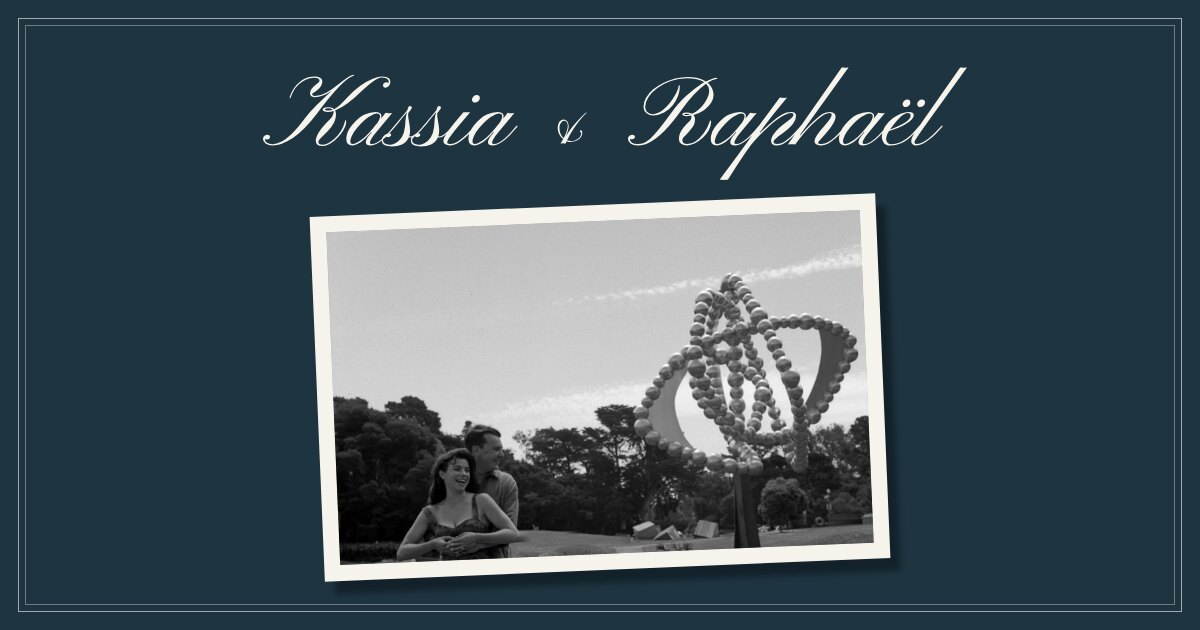
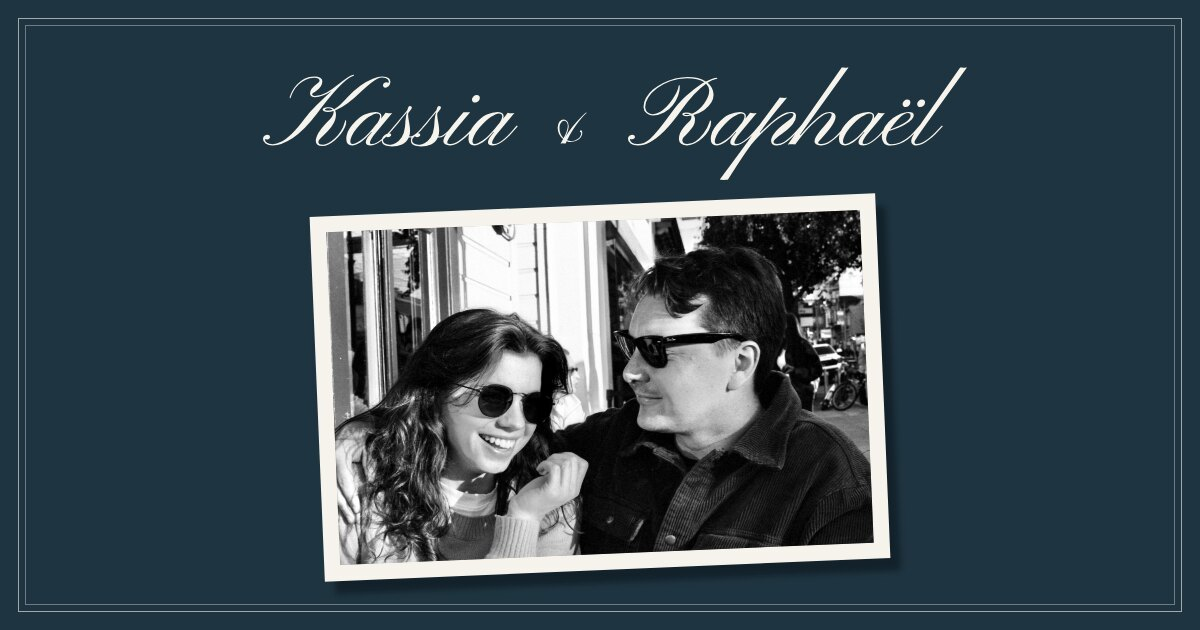
Hero: the café photo of Kassia and Raphaël in sunglasses
Replaces the hero with the scanned café print: straightened 0.45 degrees, six dust
specks removed, the site's black-and-white contrast, 1960x1223 (above 2x on desktop
and phones). Same tilt, mat and shadow. Alt text updated in English and French.
The link preview image is regenerated from the new hero. Earlier hero photos stay in
the repo; the Weekend photo is unchanged.

Claude-Session: https://claude.ai/code/session_01D8QeZqW9XuGrUWD3SXeA71

Changed region(s): [[0.2467, 0.3317, 0.74, 0.9048]]

diff --git a/index.html b/index.html
@@ -16,7 +16,7 @@
   <meta property="og:url" content="https://kassiaraphael.com/">
   <meta property="og:title" content="Kassia &amp; Raphaël · October 8, 2027">
   <meta property="og:description" content="Castel Gandolfo, Italy. We hope you’ll be there.">
-  <meta property="og:image" content="https://kassiaraphael.com/images/og.jpg?v=4">
+  <meta property="og:image" content="https://kassiaraphael.com/images/og.jpg?v=5">
   <meta property="og:image:type" content="image/jpeg">
   <meta property="og:image:width" content="1200">
   <meta property="og:image:height" content="630">
@@ -26,7 +26,7 @@
   <meta name="twitter:card" content="summary_large_image">
   <meta name="twitter:title" content="Kassia &amp; Raphaël · October 8, 2027">
   <meta name="twitter:description" content="Castel Gandolfo, Italy. We hope you’ll be there.">
-  <meta name="twitter:image" content="https://kassiaraphael.com/images/og.jpg?v=4">
+  <meta name="twitter:image" content="https://kassiaraphael.com/images/og.jpg?v=5">
   <meta name="twitter:image:alt" content="Kassia &amp; Raphaël in script above a tilted black-and-white photograph of the two of them">
 
   <!-- Icons: the villa, simplified for 16-48px (source: assets/favicon-source.svg).
@@ -71,8 +71,8 @@
       <h1 class="names"><span class="vh">Kassia &amp; Raphaël</span><span class="name" aria-hidden="true"><svg class="glyphs" viewBox="0 -1768 5084 2555" style="width:2.4824em" aria-hidden="true" focusable="false"><path d="M199 2Q105 2 52 -38Q0 -77 0 -132Q0 -178 31 -196Q62 -215 93 -215Q109 -215 126 -205Q143 -195 143 -170Q143 -151 126 -136Q109 -121 86 -121Q73 -121 61 -122Q49 -124 39 -130V-124Q39 -81 82 -52Q125 -24 198 -24Q274 -24 371 -73Q468 -122 590 -239Q713 -356 863 -560Q946 -673 1090 -816Q1234 -959 1403 -1115Q1309 -1052 1226 -1018Q1143 -983 1063 -983Q1019 -983 991 -1004Q963 -1024 963 -1064Q963 -1160 1112 -1267Q1159 -1300 1159 -1321Q1159 -1354 1130 -1368Q1100 -1383 1050 -1383Q956 -1383 874 -1344Q793 -1305 730 -1244Q666 -1182 626 -1114Q585 -1046 572 -988Q564 -962 558 -962Q547 -962 547 -980Q547 -990 549 -996Q560 -1039 596 -1108Q633 -1177 695 -1246Q757 -1316 848 -1364Q938 -1411 1057 -1411Q1126 -1411 1171 -1382Q1216 -1354 1216 -1311Q1216 -1260 1182 -1204Q1148 -1149 1068 -1099Q1040 -1081 1024 -1070Q1008 -1060 1008 -1043Q1008 -1030 1024 -1020Q1039 -1011 1063 -1011Q1173 -1011 1294 -1076Q1415 -1140 1551 -1255Q1648 -1333 1709 -1374Q1770 -1415 1804 -1430Q1838 -1446 1853 -1446Q1867 -1446 1867 -1438Q1867 -1429 1857 -1426Q1825 -1417 1769 -1382Q1713 -1347 1625 -1264Q1537 -1182 1410 -1034Q1282 -886 1107 -651Q848 -307 611 -152Q374 2 199 2ZM1217 14Q1081 14 1081 -90Q1081 -132 1104 -190Q1126 -249 1190 -334Q1254 -419 1377 -540Q1415 -577 1431 -620Q1447 -662 1447 -685Q1447 -695 1444 -704Q1384 -685 1331 -684Q1282 -682 1252 -699Q1221 -716 1221 -735Q1221 -752 1247 -766Q1273 -781 1323 -782Q1364 -783 1399 -774Q1434 -764 1457 -741Q1517 -771 1582 -831Q1648 -891 1730 -983Q1866 -1132 2000 -1226Q2135 -1321 2250 -1366Q2364 -1412 2438 -1412Q2535 -1412 2576 -1374Q2617 -1337 2607 -1281Q2599 -1235 2570 -1208Q2540 -1181 2509 -1181Q2479 -1181 2467 -1200Q2455 -1218 2459 -1239Q2462 -1259 2482 -1276Q2502 -1292 2527 -1292Q2555 -1292 2571 -1277L2575 -1295Q2581 -1321 2552 -1355Q2523 -1389 2438 -1389Q2394 -1389 2342 -1364Q2289 -1340 2211 -1278Q2133 -1216 2011 -1102Q1867 -960 1733 -860Q1599 -759 1477 -715Q1495 -681 1495 -638Q1495 -582 1476 -518Q1456 -454 1398 -374Q1341 -295 1227 -193Q1169 -141 1152 -113Q1134 -85 1134 -67Q1134 -41 1154 -28Q1175 -14 1230 -14Q1277 -14 1342 -48Q1407 -81 1474 -144Q1541 -206 1596 -294Q1651 -382 1678 -490Q1686 -521 1692 -521Q1704 -521 1704 -483Q1704 -426 1673 -359Q1642 -292 1590 -226Q1537 -160 1473 -106Q1409 -52 1342 -19Q1276 14 1217 14ZM1345 -712Q1389 -714 1428 -729Q1410 -746 1382 -754Q1353 -762 1325 -760Q1303 -759 1286 -750Q1270 -742 1270 -736Q1270 -727 1288 -719Q1305 -711 1345 -712ZM1829 2Q1765 2 1736 -33Q1706 -68 1706 -129Q1706 -196 1734 -272Q1763 -348 1829 -423Q1964 -580 2082 -632Q2199 -685 2302 -685Q2354 -685 2390 -663Q2426 -641 2426 -603Q2426 -574 2414 -544Q2446 -582 2468 -610Q2491 -639 2512 -665Q2538 -657 2572 -657Q2586 -657 2610 -658Q2634 -659 2647 -661L2310 -255Q2246 -179 2218 -132Q2190 -84 2190 -58Q2190 -26 2221 -26Q2275 -26 2333 -58Q2391 -89 2447 -138Q2503 -188 2552 -242Q2601 -295 2638 -340Q2676 -386 2696 -408L2716 -391Q2694 -366 2654 -319Q2614 -272 2562 -217Q2511 -162 2452 -112Q2392 -62 2330 -30Q2267 2 2206 2Q2106 2 2106 -60Q2106 -83 2114 -106Q2123 -130 2149 -168Q2175 -205 2227 -268L2217 -272Q2095 -122 1992 -60Q1888 2 1829 2ZM1833 -28Q1897 -28 2002 -102Q2107 -177 2254 -351Q2278 -380 2298 -405Q2319 -430 2338 -452Q2361 -487 2380 -525Q2398 -563 2398 -594Q2398 -625 2376 -640Q2354 -654 2328 -654Q2279 -654 2170 -584Q2060 -513 1929 -358Q1854 -268 1821 -198Q1788 -128 1788 -80Q1788 -28 1833 -28ZM2638 23Q2607 23 2558 15Q2509 7 2470 -19Q2432 -45 2432 -100Q2432 -150 2462 -182Q2493 -215 2530 -231Q2567 -247 2585 -247Q2626 -247 2626 -209Q2625 -193 2604 -180Q2582 -166 2556 -166Q2544 -166 2532 -174Q2521 -183 2514 -187Q2503 -176 2480 -154Q2458 -133 2458 -99Q2458 -61 2488 -42Q2519 -24 2557 -18Q2595 -13 2615 -13Q2657 -13 2720 -46Q2783 -80 2838 -159Q2892 -238 2908 -374Q2913 -422 2918 -507Q2922 -592 2949 -670Q2950 -673 2950 -679Q2912 -632 2868 -578Q2824 -524 2784 -474Q2743 -424 2714 -389Q2694 -365 2685 -358Q2676 -351 2677 -351Q2676 -351 2670 -350Q2663 -350 2659 -357Q2657 -362 2668 -376Q2680 -390 2693 -406Q2716 -432 2764 -489Q2812 -546 2866 -611Q2919 -676 2958 -726Q2964 -756 2976 -780Q2988 -804 3010 -804Q3050 -804 3050 -771Q3049 -752 3004 -700Q2977 -668 2975 -658Q2973 -649 2973 -634Q2972 -598 2980 -544Q2989 -491 2999 -432Q3009 -374 3012 -321Q3015 -242 2994 -184Q3010 -182 3021 -182Q3053 -182 3094 -211Q3136 -240 3177 -280Q3218 -320 3248 -356Q3279 -392 3289 -406L3311 -389Q3294 -371 3261 -334Q3228 -296 3186 -256Q3144 -215 3100 -186Q3057 -158 3018 -158Q3009 -158 3001 -158Q2993 -159 2985 -160Q2938 -56 2846 -16Q2754 23 2638 23ZM3234 23Q3203 23 3154 15Q3105 7 3066 -19Q3028 -45 3028 -100Q3028 -150 3058 -182Q3089 -215 3126 -231Q3163 -247 3181 -247Q3222 -247 3222 -209Q3221 -193 3200 -180Q3178 -166 3152 -166Q3140 -166 3128 -174Q3117 -183 3110 -187Q3099 -176 3076 -154Q3054 -133 3054 -99Q3054 -61 3084 -42Q3115 -24 3153 -18Q3191 -13 3211 -13Q3253 -13 3316 -46Q3379 -80 3434 -159Q3488 -238 3504 -374Q3509 -422 3514 -507Q3518 -592 3545 -670Q3546 -673 3546 -679Q3508 -632 3464 -578Q3420 -524 3380 -474Q3339 -424 3310 -389Q3290 -365 3281 -358Q3272 -351 3273 -351Q3272 -351 3266 -350Q3259 -350 3255 -357Q3253 -362 3264 -376Q3276 -390 3289 -406Q3312 -432 3360 -489Q3408 -546 3462 -611Q3515 -676 3554 -726Q3560 -756 3572 -780Q3584 -804 3606 -804Q3646 -804 3646 -771Q3645 -752 3600 -700Q3573 -668 3571 -658Q3569 -649 3569 -634Q3568 -598 3576 -544Q3585 -491 3595 -432Q3605 -374 3608 -321Q3611 -242 3590 -184Q3606 -182 3617 -182Q3649 -182 3690 -211Q3732 -240 3773 -280Q3814 -320 3844 -356Q3875 -392 3885 -406L3907 -389Q3890 -371 3857 -334Q3824 -296 3782 -256Q3740 -215 3696 -186Q3653 -158 3614 -158Q3605 -158 3597 -158Q3589 -159 3581 -160Q3534 -56 3442 -16Q3350 23 3234 23ZM4341 -876Q4313 -876 4296 -894Q4280 -911 4280 -938Q4280 -973 4310 -1002Q4339 -1032 4380 -1032Q4408 -1032 4424 -1014Q4441 -995 4441 -969Q4441 -932 4410 -904Q4378 -876 4341 -876ZM3830 2Q3769 2 3732 -20Q3694 -43 3694 -81Q3694 -111 3709 -150Q3724 -190 3766 -254Q3809 -318 3890 -420Q3972 -523 4105 -678Q4114 -677 4148 -676Q4182 -675 4201 -675Q4218 -675 4226 -676Q4235 -676 4243 -677Q4097 -505 4004 -394Q3912 -283 3862 -217Q3812 -151 3793 -116Q3774 -81 3774 -60Q3774 -34 3802 -30Q3830 -26 3847 -26Q3901 -26 3965 -62Q4029 -99 4092 -154Q4156 -208 4210 -264Q4265 -320 4300 -360Q4335 -401 4341 -407L4361 -389Q4350 -377 4313 -334Q4276 -291 4221 -234Q4166 -178 4100 -124Q4035 -70 3966 -34Q3896 2 3830 2ZM4331 2Q4267 2 4238 -33Q4208 -68 4208 -129Q4208 -196 4236 -272Q4265 -348 4331 -423Q4466 -580 4584 -632Q4701 -685 4804 -685Q4856 -685 4892 -663Q4928 -641 4928 -603Q4928 -574 4916 -544Q4948 -582 4970 -610Q4993 -639 5014 -665Q5040 -657 5074 -657Q5088 -657 5112 -658Q5136 -659 5149 -661L4812 -255Q4748 -179 4720 -132Q4692 -84 4692 -58Q4692 -26 4723 -26Q4777 -26 4835 -58Q4893 -89 4949 -138Q5005 -188 5054 -242Q5103 -295 5140 -340Q5178 -386 5198 -408L5218 -391Q5196 -366 5156 -319Q5116 -272 5064 -217Q5013 -162 4954 -112Q4894 -62 4832 -30Q4769 2 4708 2Q4608 2 4608 -60Q4608 -83 4616 -106Q4625 -130 4651 -168Q4677 -205 4729 -268L4719 -272Q4597 -122 4494 -60Q4390 2 4331 2ZM4335 -28Q4399 -28 4504 -102Q4609 -177 4756 -351Q4780 -380 4800 -405Q4821 -430 4840 -452Q4863 -487 4882 -525Q4900 -563 4900 -594Q4900 -625 4878 -640Q4856 -654 4830 -654Q4781 -654 4672 -584Q4562 -513 4431 -358Q4356 -268 4323 -198Q4290 -128 4290 -80Q4290 -28 4335 -28Z"/></svg></span> <span class="name2" aria-hidden="true"><span class="amp"><svg class="glyphs" viewBox="0 -1768 1582 2555" style="width:0.7725em" aria-hidden="true" focusable="false"><path d="M681 -18Q666 -21 638 -22Q611 -24 590 -24Q579 -24 562 -23Q544 -22 520 -19Q543 -56 564 -91Q585 -126 604 -159Q527 -221 478 -314Q430 -407 430 -513Q430 -627 485 -703Q540 -779 622 -779Q681 -779 730 -724Q780 -668 780 -564Q780 -507 750 -415Q720 -323 670 -224Q798 -422 910 -562Q1022 -702 1120 -803Q1217 -904 1303 -984Q1320 -1000 1331 -1000Q1343 -1000 1343 -991Q1343 -984 1311 -953Q1208 -853 1103 -720Q998 -587 902 -434Q805 -281 727 -119Q790 -93 860 -93Q987 -93 1082 -174Q1123 -211 1148 -257Q1172 -303 1172 -353Q1172 -356 1170 -368Q1130 -370 1130 -404Q1130 -415 1139 -424Q1148 -433 1161 -433Q1207 -433 1207 -367Q1207 -306 1178 -250Q1148 -193 1098 -152Q993 -66 854 -66Q785 -66 715 -94ZM619 -188Q687 -313 718 -410Q750 -508 750 -575Q750 -652 714 -696Q677 -739 633 -739Q597 -739 564 -707Q530 -675 508 -623Q487 -571 487 -511Q487 -413 522 -330Q558 -246 619 -188Z"/></svg></span>&nbsp;<span class="name"><svg class="glyphs" viewBox="0 -1768 6355 2555" style="width:3.1030em" aria-hidden="true" focusable="false"><path d="M252 2Q143 2 92 -38Q40 -78 40 -135Q40 -179 71 -198Q102 -218 133 -218Q150 -218 166 -207Q183 -196 183 -172Q183 -153 166 -138Q150 -122 128 -122Q115 -122 102 -124Q90 -126 80 -133V-127Q80 -83 122 -54Q165 -26 239 -26Q305 -26 365 -49Q425 -72 496 -136Q568 -201 668 -324Q768 -447 914 -648Q1074 -872 1235 -1015Q1396 -1158 1565 -1270Q1575 -1276 1584 -1282Q1594 -1287 1604 -1292Q1543 -1333 1452 -1353Q1360 -1373 1247 -1373Q1073 -1373 917 -1317Q761 -1261 642 -1172Q523 -1083 456 -980Q390 -878 393 -784Q395 -730 420 -698Q446 -666 482 -652Q517 -638 549 -638Q621 -638 694 -682Q767 -727 834 -796Q900 -866 953 -944Q1006 -1023 1039 -1092Q1072 -1161 1076 -1203Q1080 -1237 1091 -1237Q1101 -1237 1101 -1205Q1104 -1117 1067 -1014Q1030 -912 958 -820Q885 -728 781 -670Q677 -612 547 -612Q482 -612 422 -658Q361 -703 359 -779Q356 -878 408 -970Q460 -1063 552 -1141Q644 -1219 762 -1278Q879 -1336 1008 -1368Q1137 -1401 1262 -1401Q1492 -1401 1635 -1309Q1712 -1348 1768 -1366Q1824 -1384 1852 -1384Q1871 -1384 1872 -1374Q1872 -1362 1844 -1358Q1767 -1342 1671 -1283Q1787 -1189 1793 -1042Q1797 -958 1747 -876Q1697 -793 1604 -726Q1510 -660 1383 -622Q1412 -592 1413 -544Q1416 -499 1403 -454Q1390 -408 1346 -348Q1302 -287 1212 -197Q1178 -168 1166 -144Q1154 -119 1155 -99Q1155 -69 1177 -48Q1199 -26 1260 -26Q1340 -26 1428 -85Q1515 -144 1591 -247Q1667 -350 1711 -480Q1719 -510 1725 -510Q1743 -510 1743 -481Q1744 -394 1696 -308Q1648 -223 1572 -153Q1496 -83 1412 -40Q1327 2 1255 2Q1174 2 1130 -32Q1086 -67 1084 -121Q1082 -195 1108 -254Q1134 -313 1175 -362Q1216 -411 1257 -453Q1310 -497 1325 -526Q1340 -555 1339 -583Q1339 -597 1333 -609Q1308 -603 1285 -600Q1262 -598 1242 -598Q1199 -598 1177 -610Q1155 -621 1154 -636Q1153 -648 1172 -660Q1192 -671 1230 -671Q1263 -671 1294 -666Q1326 -660 1351 -646Q1420 -675 1484 -730Q1548 -785 1598 -854Q1649 -923 1678 -994Q1706 -1065 1704 -1126Q1701 -1206 1641 -1263Q1522 -1182 1391 -1042Q1260 -901 1133 -716Q939 -444 780 -287Q620 -130 490 -64Q360 2 252 2ZM1237 -621Q1272 -621 1310 -632Q1282 -648 1230 -648Q1190 -648 1190 -638Q1190 -634 1202 -628Q1214 -621 1237 -621ZM1859 2Q1795 2 1766 -33Q1736 -68 1736 -129Q1736 -196 1764 -272Q1793 -348 1859 -423Q1994 -580 2112 -632Q2229 -685 2332 -685Q2384 -685 2420 -663Q2456 -641 2456 -603Q2456 -574 2444 -544Q2476 -582 2498 -610Q2521 -639 2542 -665Q2568 -657 2602 -657Q2616 -657 2640 -658Q2664 -659 2677 -661L2340 -255Q2276 -179 2248 -132Q2220 -84 2220 -58Q2220 -26 2251 -26Q2305 -26 2363 -58Q2421 -89 2477 -138Q2533 -188 2582 -242Q2631 -295 2668 -340Q2706 -386 2726 -408L2746 -391Q2724 -366 2684 -319Q2644 -272 2592 -217Q2541 -162 2482 -112Q2422 -62 2360 -30Q2297 2 2236 2Q2136 2 2136 -60Q2136 -83 2144 -106Q2153 -130 2179 -168Q2205 -205 2257 -268L2247 -272Q2125 -122 2022 -60Q1918 2 1859 2ZM1863 -28Q1927 -28 2032 -102Q2137 -177 2284 -351Q2308 -380 2328 -405Q2349 -430 2368 -452Q2391 -487 2410 -525Q2428 -563 2428 -594Q2428 -625 2406 -640Q2384 -654 2358 -654Q2309 -654 2200 -584Q2090 -513 1959 -358Q1884 -268 1851 -198Q1818 -128 1818 -80Q1818 -28 1863 -28ZM1994 709Q1982 709 1958 706Q1935 704 1921 700Q1998 596 2095 465Q2192 334 2296 192Q2399 50 2498 -86Q2596 -223 2674 -337Q2732 -417 2771 -470Q2810 -523 2844 -567Q2877 -611 2916 -662Q2954 -713 3010 -788Q3065 -862 3150 -977Q3186 -973 3208 -972Q3229 -971 3244 -971Q3258 -971 3272 -972Q3287 -974 3301 -978Q3213 -871 3153 -798Q3093 -726 3052 -676Q3011 -625 2979 -584Q2947 -543 2916 -501Q2884 -459 2843 -404Q2802 -348 2741 -266L2748 -258Q3059 -557 3207 -634Q3254 -658 3290 -672Q3327 -685 3388 -685Q3438 -685 3460 -662Q3483 -639 3483 -602Q3483 -526 3416 -436Q3350 -346 3182 -227Q3082 -156 3052 -124Q3022 -93 3022 -71Q3022 -26 3093 -26Q3163 -26 3236 -70Q3309 -115 3377 -180Q3445 -244 3500 -307Q3554 -370 3585 -406L3607 -389Q3577 -355 3522 -291Q3466 -227 3394 -160Q3321 -92 3242 -45Q3163 2 3087 2Q3028 2 3000 -24Q2971 -51 2971 -97Q2971 -165 3046 -260Q3121 -355 3300 -488Q3389 -552 3409 -581Q3429 -610 3429 -628Q3429 -640 3418 -650Q3408 -660 3388 -660Q3341 -660 3296 -644Q3251 -628 3199 -597Q3135 -560 3054 -496Q2973 -432 2887 -352Q2801 -273 2718 -187Q2636 -101 2567 -19Q2517 47 2456 137Q2394 227 2332 322Q2269 417 2216 500Q2162 583 2128 638Q2093 693 2088 701Q2078 704 2055 706Q2032 709 1994 709ZM3994 2Q3948 2 3904 -19Q3861 -40 3861 -75Q3861 -102 3874 -138Q3886 -175 3931 -239Q3976 -303 4074 -413Q4153 -502 4183 -551Q4213 -600 4213 -624Q4213 -638 4204 -649Q4194 -660 4166 -660Q4143 -660 4104 -647Q4064 -634 4017 -603Q3938 -549 3821 -436Q3704 -324 3557 -141L3465 -19Q3449 -22 3435 -23Q3421 -24 3407 -24Q3371 -24 3346 -20Q3322 -17 3311 -14L4418 -1595Q4431 -1594 4452 -1592Q4474 -1590 4514 -1591Q4522 -1591 4533 -1592Q4544 -1594 4557 -1595L3565 -218L3570 -207Q3723 -383 3830 -484Q3937 -584 4008 -632Q4058 -664 4100 -674Q4143 -685 4175 -685Q4240 -685 4268 -654Q4295 -622 4293 -584Q4291 -544 4266 -488Q4241 -433 4180 -350Q4118 -268 4006 -147Q3956 -93 3946 -78Q3935 -62 3935 -49Q3935 -39 3957 -32Q3979 -26 4006 -26Q4069 -26 4134 -61Q4198 -96 4258 -149Q4318 -202 4367 -257Q4416 -312 4450 -354Q4483 -395 4493 -406L4515 -389Q4502 -376 4468 -332Q4433 -289 4381 -232Q4329 -176 4266 -122Q4203 -69 4134 -34Q4064 2 3994 2ZM4485 2Q4421 2 4392 -33Q4362 -68 4362 -129Q4362 -196 4390 -272Q4419 -348 4485 -423Q4620 -580 4738 -632Q4855 -685 4958 -685Q5010 -685 5046 -663Q5082 -641 5082 -603Q5082 -574 5070 -544Q5102 -582 5124 -610Q5147 -639 5168 -665Q5194 -657 5228 -657Q5242 -657 5266 -658Q5290 -659 5303 -661L4966 -255Q4902 -179 4874 -132Q4846 -84 4846 -58Q4846 -26 4877 -26Q4931 -26 4989 -58Q5047 -89 5103 -138Q5159 -188 5208 -242Q5257 -295 5294 -340Q5332 -386 5352 -408L5372 -391Q5350 -366 5310 -319Q5270 -272 5218 -217Q5167 -162 5108 -112Q5048 -62 4986 -30Q4923 2 4862 2Q4762 2 4762 -60Q4762 -83 4770 -106Q4779 -130 4805 -168Q4831 -205 4883 -268L4873 -272Q4751 -122 4648 -60Q4544 2 4485 2ZM4489 -28Q4553 -28 4658 -102Q4763 -177 4910 -351Q4934 -380 4954 -405Q4975 -430 4994 -452Q5017 -487 5036 -525Q5054 -563 5054 -594Q5054 -625 5032 -640Q5010 -654 4984 -654Q4935 -654 4826 -584Q4716 -513 4585 -358Q4510 -268 4477 -198Q4444 -128 4444 -80Q4444 -28 4489 -28ZM5423 6Q5325 6 5283 -45Q5241 -96 5239 -170Q5238 -224 5261 -290Q5284 -356 5309 -391Q5383 -494 5469 -559Q5555 -624 5638 -654Q5720 -685 5783 -685Q5844 -685 5868 -665Q5893 -645 5894 -619Q5897 -580 5852 -528Q5808 -477 5697 -417Q5586 -357 5387 -291Q5352 -235 5340 -194Q5328 -154 5328 -122Q5328 -75 5360 -49Q5391 -23 5434 -23Q5528 -23 5610 -58Q5693 -94 5762 -148Q5830 -202 5882 -258Q5934 -313 5967 -354Q6000 -396 6011 -406L6032 -389Q6017 -376 5982 -332Q5946 -288 5892 -231Q5837 -174 5766 -120Q5695 -66 5608 -30Q5522 6 5423 6ZM5410 -326Q5604 -394 5716 -466Q5828 -539 5828 -605Q5828 -661 5776 -661Q5709 -661 5631 -589Q5553 -517 5449 -380Q5427 -352 5410 -326ZM6024 -784Q5997 -784 5980 -802Q5963 -819 5963 -846Q5963 -881 5993 -910Q6023 -940 6064 -940Q6092 -940 6108 -922Q6125 -903 6125 -877Q6125 -840 6093 -812Q6061 -784 6024 -784ZM5725 -784Q5699 -784 5682 -802Q5665 -819 5665 -846Q5665 -881 5694 -910Q5724 -940 5764 -940Q5793 -940 5808 -922Q5824 -903 5824 -877Q5824 -840 5793 -812Q5762 -784 5725 -784ZM5939 2Q5897 2 5870 -22Q5842 -45 5842 -79Q5842 -106 5848 -132Q5855 -157 5878 -198Q5900 -238 5946 -307Q5992 -376 6071 -490L6844 -1595Q6858 -1594 6880 -1592Q6901 -1590 6941 -1591Q6949 -1591 6960 -1592Q6970 -1594 6983 -1595L6161 -454Q6071 -328 6020 -254Q5969 -181 5945 -142Q5921 -104 5915 -88Q5909 -71 5909 -59Q5909 -26 5956 -26Q6015 -26 6080 -61Q6146 -96 6210 -148Q6274 -201 6328 -256Q6382 -311 6420 -353Q6457 -395 6469 -406L6489 -389Q6476 -376 6437 -333Q6398 -290 6341 -234Q6284 -177 6216 -123Q6149 -69 6078 -34Q6006 2 5939 2Z"/></svg></span></span></h1>
       <!-- Above the fold: no fade, high priority, 800px file for phones. -->
       <figure class="print print--hero">
-        <img src="/images/hero-pearls.jpg" srcset="/images/hero-pearls-800.jpg 800w, /images/hero-pearls.jpg 1360w"
-             sizes="(max-width: 759px) 100vw, 62vw" width="1360" height="848" fetchpriority="high" data-t-alt="hero_photo_alt" alt="">
+        <img src="/images/hero-cafe.jpg" srcset="/images/hero-cafe-800.jpg 800w, /images/hero-cafe.jpg 1960w"
+             sizes="(max-width: 759px) 100vw, 62vw" width="1960" height="1223" fetchpriority="high" data-t-alt="hero_photo_alt" alt="">
       </figure>
       <div class="caption">
         <p class="caps date" data-t="hero_date"></p>

diff --git a/content.js b/content.js
@@ -31,8 +31,8 @@ window.SITE_CONTENT = {
 
   /* Hero */
   hero_photo_alt: {
-    en: "Kassia and Raphaël laughing on the lawn in Golden Gate Park on their engagement day, a giant pearl-crown sculpture behind them, black-and-white photograph",
-    fr: "Kassia et Raphaël riant sur la pelouse du Golden Gate Park le jour de leurs fiançailles, devant une immense sculpture en forme de couronne de perles, photographie en noir et blanc",
+    en: "Kassia laughing as Raphaël smiles at her at a sunny café table, both in sunglasses, his arm around her shoulders, black-and-white photograph",
+    fr: "Kassia rit pendant que Raphaël lui sourit à la terrasse ensoleillée d’un café, tous deux en lunettes de soleil, son bras autour de ses épaules, photographie en noir et blanc",
     fr_status: "needs native review"
   },
   hero_date: { en: "Friday, October 8, 2027", fr: "vendredi 8 octobre 2027", fr_status: "needs native review" },
